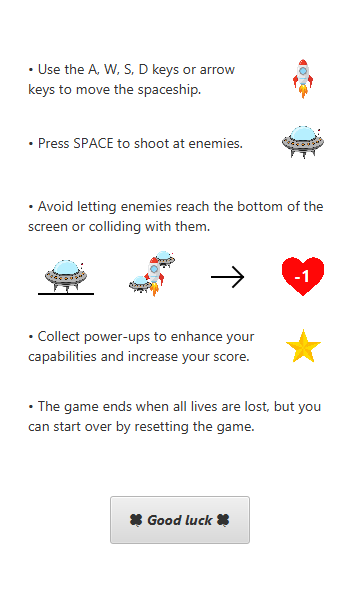
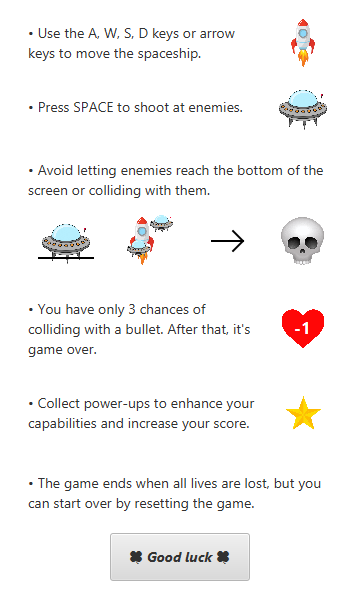
Update README.md

diff --git a/src/main/java/uet/oop/space_invaders/spaceinvaders/GameController.java b/src/main/java/uet/oop/space_invaders/spaceinvaders/GameController.java
@@ -122,7 +122,7 @@ public class GameController {
         gameLoop = new AnimationTimer() {
             @Override
             public void handle(long now) {
-                information.setText(String.format("Enemy: %d\nPowerup: %d\nEnemyBullet: %d\n\nScore: %d", enemyCount, powerupCount, enemyBulletCount, score));
+                information.setText(String.format("Score: %d", score));
                 gc.clearRect(0, 0, canvas.getWidth(), canvas.getHeight()); // Reset frame
 
                 enemyCreate();

diff --git a/README.md b/README.md
@@ -1,8 +1,4 @@
-# SpaceInvaders
-
-
 ## Introduction
-- A game project written in JavaFX.
 - Space Shooter is a lightweight 2D game built with JavaFX. Pilot your spaceship, dodge enemy fire, collect power-ups, and defeat waves of enemies—including challenging boss encounters—as you aim for the highest score.
 
 ## Members
@@ -14,23 +10,35 @@
 - Use the A, W, S, D keys or arrow keys to move the spaceship.
 - Press SPACE to shoot at enemies.
 - Avoid letting enemies reach the bottom of the screen or colliding with them.
+- You have only 3 chances of colliding with a bullet. After that, it's game over.
 - Collect power-ups to enhance your capabilities and increase your score.
 - The game ends when all lives are lost, but you can start over by resetting the game.
 
 ## Screenshots
 ### Start Screen
+<p align="center" style="cursor: pointer">
+    <img src="img/Main.png" alt="Start Screen"/>
+</p>
 
 ### Gameplay
+<p align="center" style="cursor: pointer">
+    <img src="img/Gameplay.png" alt="Gameplay"/>
+</p>
 
 ### Instructions
+<p align="center" style="cursor: pointer">
+    <img src="img/Instructions.png" alt="Instructions"/>
+</p>
 
 ### Losing Screen
+<p align="center" style="cursor: pointer">
+    <img src="img/GameOver.png" alt="Losing Screen"/>
+</p>
 
 ### Scoreboard
 
 
 ## Requirements
-- JDK 11 or higher.
+- JDK 24 or higher.
 - JavaFX SDK (version compatible with your JDK).
 - Internet connection (for scoreboard and multiplayers).
-
